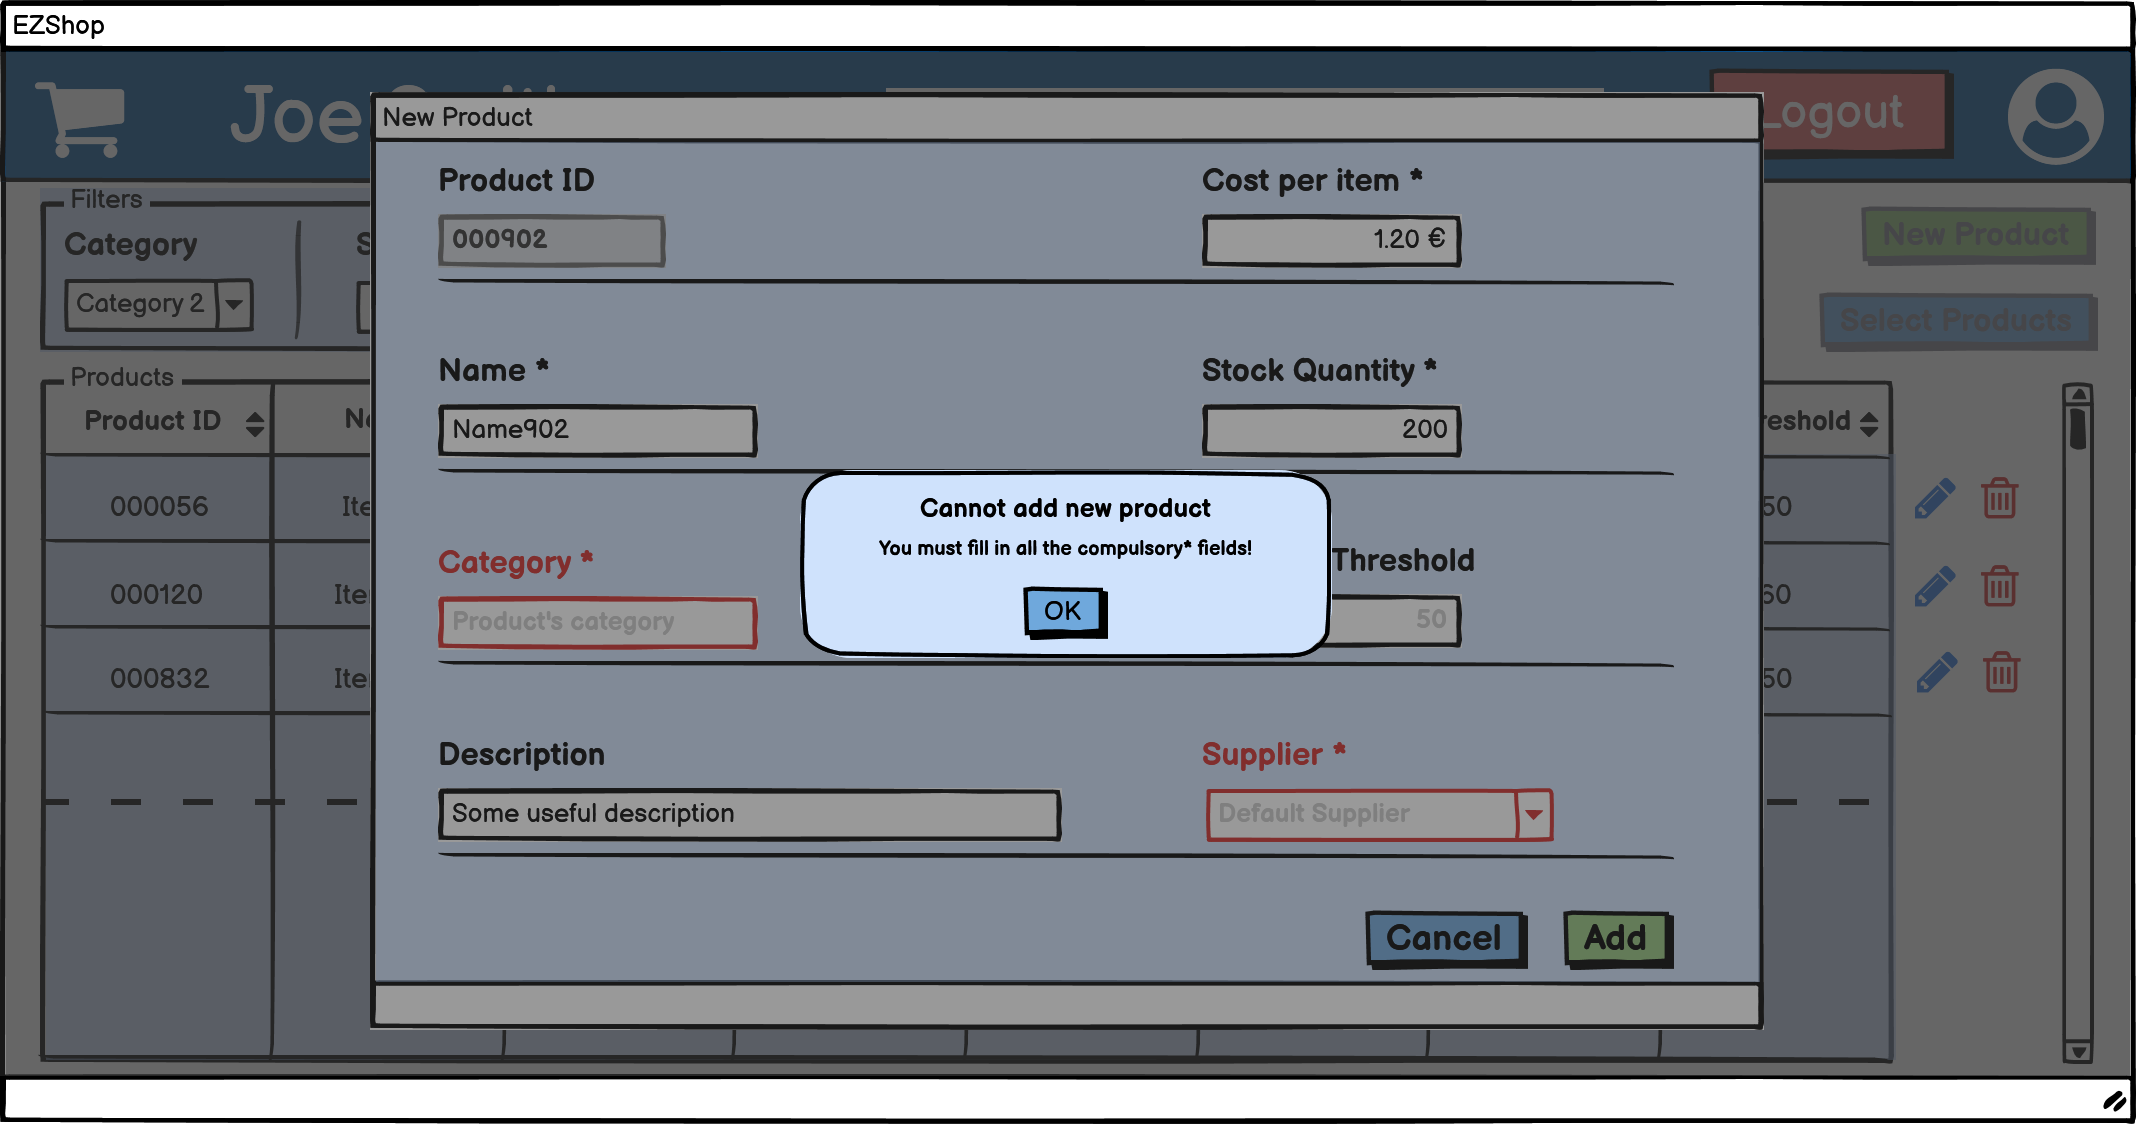
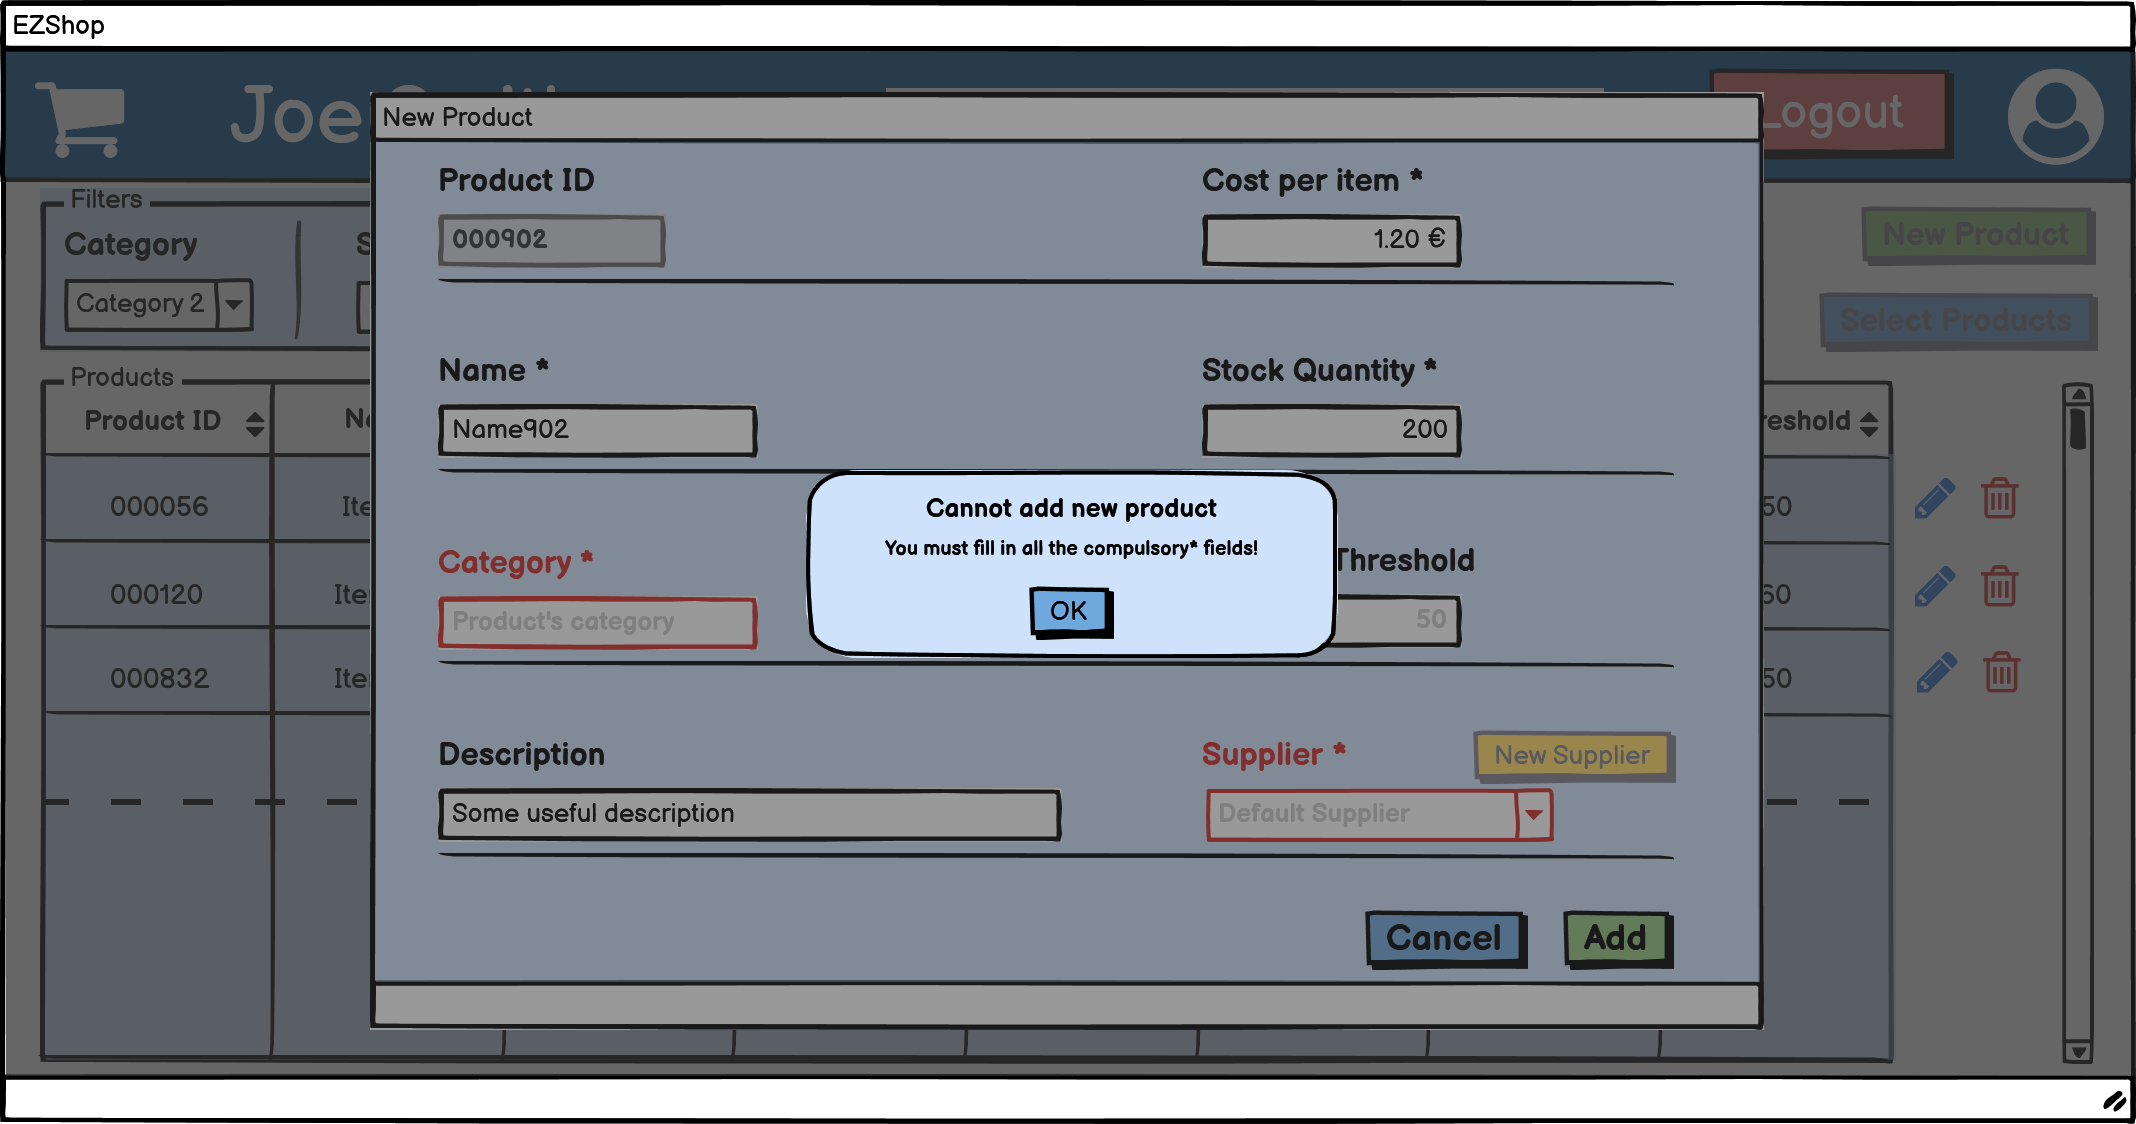
Doc: minor refactoring for Warehouse use cases; added new frame to GUIPrototype document.

diff --git a/Deliverables/RequirementsDocument.md b/Deliverables/RequirementsDocument.md
@@ -503,7 +503,7 @@ In addition, the actor should be able to place new orders, and to cancel or edit
 | Precondition   	| 1. Warehouse Manager has an account<br/>2. Warehouse Manager is authenticated<br/>3. Inventory exists |
 | Post condition    | Inventory contains a new product		   |
 | Nominal Scenario  | Warehouse Manager adds a new product to the inventory |
-| Variants          | The product cannot be added because one or more compulsory fields have not been filled in |
+| Variants          | - The product cannot be added because one or more compulsory fields have not been filled in<br/> - Supplier not present in the list, so user creates a new one |
 
 ##### Scenario 5.1 - Add new product
 | Scenario 			| Add new product to the inventory |
@@ -529,6 +529,21 @@ In addition, the actor should be able to place new orders, and to cancel or edit
 | 4                 | Warehouse Manager fills in some field, but 'Add' button with one or more compulsory fields still blank |
 | 5                 | An alert is shown, explaining that it is not possible to add the product without the missing fields |
 | 6                 | Warehouse Manager can click 'Ok' button in order to dismiss the alert and get back to the window where the missing fields are now highlighted with red color |
+
+##### Scenario 5.3 - Add new product: new Supplier
+| Scenario 			| Add new product: new Supplier |
+| ----------------- | --------------------------- |
+| Precondition     	| 1. Warehouse Manager has an account<br/>2. Warehouse Manager is authenticated<br/>3. Inventory exists |
+| Post condition   	| Inventory contains a new product and there is a new Supplier in suppliers' list |
+| Step#        		| Description  |
+| 1                 | Warehouse Manager clicks on 'New Product' button |
+| 2                 | The software assigns to the product an incremental and unique ID |
+| 3                 | The software presents a window containing various fields to fill in with product's information (ID's field is not editable) |
+| 4                 | Warehouse Manager fills in all the fields but the one related to Supplier, because the desired one is not in the saved list |
+| 5                 | User clicks "New Supplier" |
+| 6                 | The software presents a window containing various fields to fill in with Supplier's information (ID's field is not editable) |
+| 7                 | Warehouse Manager fills in the fields and clicks "Add" button |
+| 8                 | The software saves the new supplier and brings the user back to the "Add Product" window |
 
 
 ### Use case 6, UC6 - Remove product

diff --git a/Deliverables/GUIPrototype.md b/Deliverables/GUIPrototype.md
@@ -108,6 +108,9 @@ As in "Scenario 1.2 - Inserting Product/Card Code manually", but there is no war
 
 ![](GUI_images/WarehouseManagement/Inventory_New_Product_Missing_Compulsory_Field(s).png)
 
+### Scenario 5.3 - Add new product: new Supplier
+![](GUI_images/WarehouseManagement/Inventory_New_Supplier.png)
+
 ### Scenario 6.1 - Remove product from inventory
 
 ![](GUI_images/WarehouseManagement/Inventory_Remove_Product.png)
